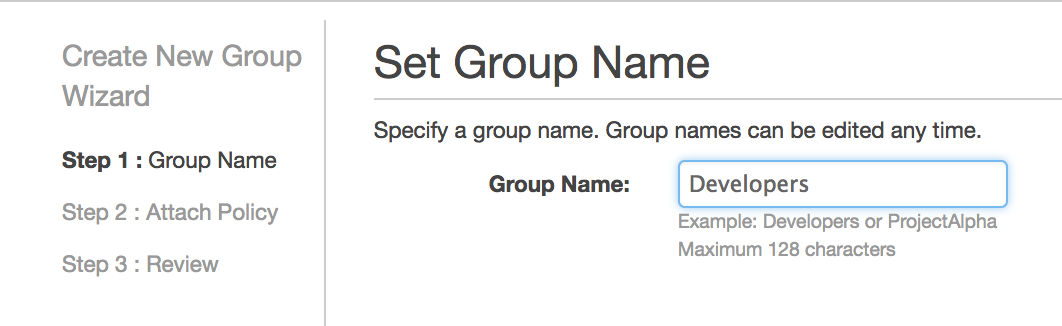
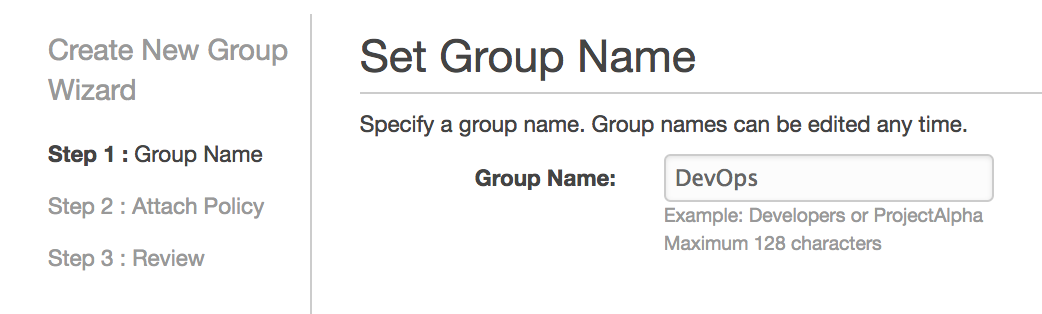
post: Add first two AWS IAM posts

diff --git a/_posts/2018-07-29-aws-iam-pt2-a-practical-example.md b/_posts/2018-07-29-aws-iam-pt2-a-practical-example.md
@@ -1,0 +1,158 @@
+---
+layout: post
+title: AWS IAM Pt. 2 - A Practical Example
+ref: road-to-aws-certification-iam-pt2
+lang: en
+date: 2018-07-29
+comments: true
+categories: [aws, iam]
+---
+
+*[Part one]({{ site.baseurl }}{% post_url 2018-07-29-aws-iam-pt1-the-basics %}) of this series covers IAM basics and a general use case.*
+
+*Part two is the implementation of the use case in part one, that is, the creation of users, groups and policies to restrict access to some AWS services.*
+
+---
+---
+
+On previous post I explained the basics of AMI and described an use case for it. Now, we're going to implement the actual solution for that problem.
+
+As a quick recap, we have four developers that need shared and not shared access to AWS services, and an accountant that has very limited access. Specifically:
+- **DevOps developers**: Console and programmatic access to ElasticBeanstalk, EC2, S3 and SQS
+- **Web developers**: Console and programmatic access to ElasticBeanstalk and S3
+- **Mobile developers**: Programmatic access to S3 and AWS mobile services such as Cognito
+- **Accountant**: S3 read-only access to the AWS billing reports bucket
+
+Let's get started.
+
+---
+
+## Create groups
+First thing we need is to create the groups- let's start with the **DevOps** group.
+1. Go the IAM console and select the groups section on the sidebar
+2. Press the "**Create New Group"** button
+
+![][iam-dashboard-group-creation]
+
+### Name your group
+Our group is going to be called *DevOps*:
+
+![][iam-dashboard-group-name]
+
+### Attach a policy
+This is where it starts to get interesting. Remember that a policy is the set of "rules" that will dictate which services and actions are allowed- for the group in this case.
+
+On the next screen you will get a seemingly endless list of already created policies. These policies are managed by AWS, that is, they already contain rules for specific permissions you may need. Luckily for us, there are polices that perfectly fits our needs. According to the problem details, the policies needed for the DevOps group are:
+- **AmazonS3FullAccess**: Full access to S3
+- **AWSElasticBeanstalkFullAccess**: Full access to ElasticBeanstalk
+- **AmazonEC2FullAccess**: Full access to EC2
+- **AmazonSQSFullAccess**: Full access to SQS
+
+Selecting these policies you are saying: *All users in this group will have full access to S3, EC2, ElasticBeanstalk and SQS.* Go for it.
+
+**NOTE**: You can proceed to the next step without attaching any policy. That means that the group will have no permissions at all.
+
+**NOTE TWO**: If the name of a policy is not descriptive enough you can always go to the policies section of the IAM dashboard and look for the details:
+
+![][iam-policy-details]
+
+### Review group
+Last step in group creation is to review and make sure the name and policies are the ones we intended to set. So, make sure the name and policies are ones we intended to set 😛
+
+You now have the **DevOps group** created. Go ahead and create the two developers groups remaining. The general process is the same, but you need a different name and a different set of policies.
+
+---
+
+## Create users
+Time to create each of our users.
+1. Go the IAM console and select the users section on the sidebar
+2. Press the "**Add user"** button
+
+![][iam-dashboard-user-creation]
+
+### Name your user and select access type
+Our first user will be *Sally*- a **DevOps** engineer- and these are the configurations needed according to the details of the problem previously stated:
+
+![][iam-user-creation-step1]
+
+So the user will have programmatic and console access. The user will first enter with an autogenerated password, and then asked to reset it.
+
+### Set permissions
+At this point you need to define the permissions for this new user. You can either:
+- Add user to a group
+- Copy permissions from existing user
+- Attach existing policies directly
+
+Since you already did the heavy lifting of creating a group with the needed policies, we're going to select the first option: Add user to a group. Go ahead and select the group you created on the previous steps:
+
+![][iam-user-creation-step2]
+
+### Review
+As in the groups creation, review everything is configured as intended and proceed to create the user.
+
+At this point you will be given the credentials of the user as well as its password. I recommend you to download and email them to the person the AWS user is intended.
+
+You now have your first user assigned to the adequate group according to its job requirements. You can now proceed to create the remaining users and add them to the required groups.
+
+---
+
+## The accountant group and user
+The accountant only requires read-access to a specific bucket- that's a very limited permission scope. There is no AWS managed policy to manage this case. **It's time to create your own policy**.
+
+## Create a custom policy
+To create an IAM policy:
+1. Go the IAM console and select the *policies* section on the sidebar
+2. Press the "**Create policy"** button
+
+![][iam-dashboard-policy-creation]
+
+Now you are redirected to the policy creation page. There are two ways to create a policy on this page:
+- Visual editor
+- JSON document
+
+We're going to use the Visual editor option because I think is more friendly. Here, he need to select to which service(s) we want access to, to what specific actions, and to what specific resources of this/these service(s) we can access.
+
+We want S3 read-only access to the billing reports bucket. **NOTE**: I'm assuming you have at least one S3 bucket with which you can try this exercise. If you don't have any, please go to S3 and create one with the default settings.
+
+First permission you need to add is this:
+
+![][iam-dashboard-policy-creation-permission1]
+
+The **ListAllMyBuckets** and **GetBucketLocation** actions combined with the **All resources** option allows the user to see every bucket that exists on your account. You actually need this permission if you want the user to be able to access the bucket through the AWS console. Don't worry, they will no be able to access anything but the bucket names.
+
+Now, add another permission with the bottom right button. This time you only need the **ListBucket** action and to define the bucket ARN you need access to. My bucket is called *my-company-billing*. So, the options look like this:
+
+![][iam-dashboard-policy-creation-permission2]
+
+You can get your bucket ARN by selecting your bucket on S3. The ARN is **arn:aws:s3:::{YOUR_BUCKET_NAME}**.
+
+This permission allows users to list the contents of a bucket, but not to access them yet. We're missing one last permission, so let's add it.
+
+Last but not least, this permission will allow the user to actually access the objects on the desired bucket:
+
+![][iam-dashboard-policy-creation-permission3]
+
+We're using the wildcard "**\***" after the bucket name as our resource ARN to indicate that we want access to every object in the bucket.
+
+Go to next step, name your policy, add an useful description and finish the policy creation! I recommend you to have a naming convention for every resource you create. It doesn't matter much which convention you choose, but **stick with it**. I use *camel caps* (ThisIsCamelCaps) because AWS managed policies are named that way.
+
+### Use custom policy
+You now have your accountant custom policy with S3 read-only access. Last thing you need to do to solve the stated problem is to create your accountant group and user, and tie them together. You can do that with the knowledge acquired so far 😉
+
+# Wrap-up
+So far you have created four groups- three for developers and one for your accountant. Also, you created a user for each of your employees and added them to the adequate group according to their job needs.
+
+All your users should now have permissions to perform their jobs and everyone should be happy 👏🏼
+
+**Thanks for reading me!** ❤
+
+[iam-dashboard-group-creation]: /assets/iam/pt2/pt2-1.png "IAM Dashboard with group section selected"
+[iam-dashboard-group-name]: /assets/iam/pt2/pt2-2.png "IAM Group creation - Group name"
+[iam-policy-details]: /assets/iam/pt2/pt2-3.png "IAM policy details - AWS Cognito Power User"
+[iam-dashboard-user-creation]: /assets/iam/pt2/pt2-4.png "IAM Dashboard with user section selected"
+[iam-user-creation-step1]: /assets/iam/pt2/pt2-5.png "IAM User creation- step one"
+[iam-user-creation-step2]: /assets/iam/pt2/pt2-6.png "IAM User creation- step two"
+[iam-dashboard-policy-creation]: /assets/iam/pt2/pt2-7.png "IAM Dashboard with policies section selected"
+[iam-dashboard-policy-creation-permission1]: /assets/iam/pt2/pt2-8.png "IAM Policy creation - Permission one"
+[iam-dashboard-policy-creation-permission2]: /assets/iam/pt2/pt2-9.png "IAM Policy creation - Permission two"
+[iam-dashboard-policy-creation-permission3]: /assets/iam/pt2/pt2-10.png "IAM Policy creation - Permission three"

diff --git a/_posts/2018-07-29-aws-iam-pt1-the-basics.md b/_posts/2018-07-29-aws-iam-pt1-the-basics.md
@@ -1,0 +1,79 @@
+---
+layout: post
+title: AWS IAM Pt. 1 - The Basics
+ref: aws-iam-pt1-the-basics
+lang: en
+date: 2018-07-29
+comments: true
+categories: [aws, iam]
+---
+
+*Part one of this series covers IAM basics and a general use case.*
+
+*[Part two]({{ site.baseurl }}{% post_url 2018-07-29-aws-iam-pt2-a-practical-example %}) is the implementation of the use case in part one, that is, the creation of users, groups and policies to restrict access to some AWS services.*
+
+---
+---
+
+# What's IAM? 🔑
+AWS **I**dentity and **A**ccess **M**anagement, called **IAM**, is a feature of AWS that allows you to have fine-grained control over whom can access any of your AWS resources and to what extent. Also, it's **free**.
+
+# What can it do?
+It can **allow and restrict access** to specific services and actions to specific users or roles- more on this below.
+
+# Why use it?
+You don't want every user to be able to do absolutely everything on your account. Usually you want a set of users- or group of users- to execute a set of specific actions on selected services. **That's why you need IAM**.
+
+# Some basic IAM concepts
+Once you start using IAM you're going to stumble upon some of these concepts and you need to understand them very well to know when to use one or the other.
+
+- ## Policies
+  **Policies are the cornerstone of IAM**. They are the set of rules and restrictions that define the level of access to services and actions to your AWS resources.
+
+- ## Users
+  You can think of IAM users as **physical individuals** that need some level of access to your AWS resources either throught the console and/or programatically. E.g.: John needs check if the servers are healthy- **he needs EC2 access**.
+
+- ## Groups
+  Groups are no more than a collection of users that share the same restrictions. Using groups helps you re-use your policies. E.g.: Your networking team need to do a security audit on your network settings- **they all need VPC access**.
+
+- ## Roles
+  Roles are somehow similar to users, except for the fact that roles are used to restrict access from resource to resource. E.g.: Your server needs to notify a queue of an event- **your EC2 servers need SQS access**.
+
+We're not yet gonna dive on how to create any of these entities. First, let me show you a common situation where IAM can greatly help you.
+
+Let's suppose you're the CTO of a company with:
+- Four developers- Sally, Maria, John and Jane
+- One salesperson- Peter
+- One accountant- Mary
+
+The developers have different roles on your company: Sally is a DevOps engineer, John and Maria are web developers, and Jane's a mobile developer.
+
+You all use AWS, but each needs a different set of services. You don't want every employee to have acccess to every resource, so you decide to use IAM to solve this problem.
+
+# But how?
+With IAM, you create a **group** for each job role and attach a **policy** for the specific access needed. Then you add users to the adequate group.
+
+Let's define what do each of these groups need:
+
+- **DevOps developers**: Console and programmatic access to ElasticBeanstalk, EC2, S3 ans SQS
+- **Web developers**: Console and programmatic access to ElasticBeanstalk and S3
+- **Mobile developers**: Programmatic access to S3 and AWS mobile services such as Cognito
+
+With these specifications in mind, we can proceed now to create each group and user and assign, or not, console and programmatic access to AWS as well as the needed policies.
+
+What about the sales person and accountant? The sales person doesn't need AWS access at the moment, so no user for him 🙃 Your accountant does need to access an S3 bucket where the AWS billing is stored every month though. For this person you want to create a single user with only console access and with only read permissions to a specific bucket on your AWS account.
+
+And that's an overview on how IAM can help you manage and control access to your AWS resources. I know this post is very general and doesn't dive deep into how you *actually* achieve this. That's why we're now going to implement this solution [on the next blog post!]({{ site.baseurl }}{% post_url 2018-07-29-aws-iam-pt2-a-practical-example %})
+
+
+**Thanks for reading me!** ❤
+
+---
+
+*[S3]: Simple Storage Service - AWS storage solution
+*[EC2]: Elastic Compute Cloud - AWS computational cloud solution
+*[ElasticBeanstalk]: AWS-managed computational cloud solution
+*[SQS]: Simple Queue Service - AWS queue solution
+*[VPC]: Virtual Private Cloud - AWS network management solution
+*[Cognito]: AWS solution for mobile sign-in and sign-up
+*[IAM]: Identity Access Management - Permissions within AWS
